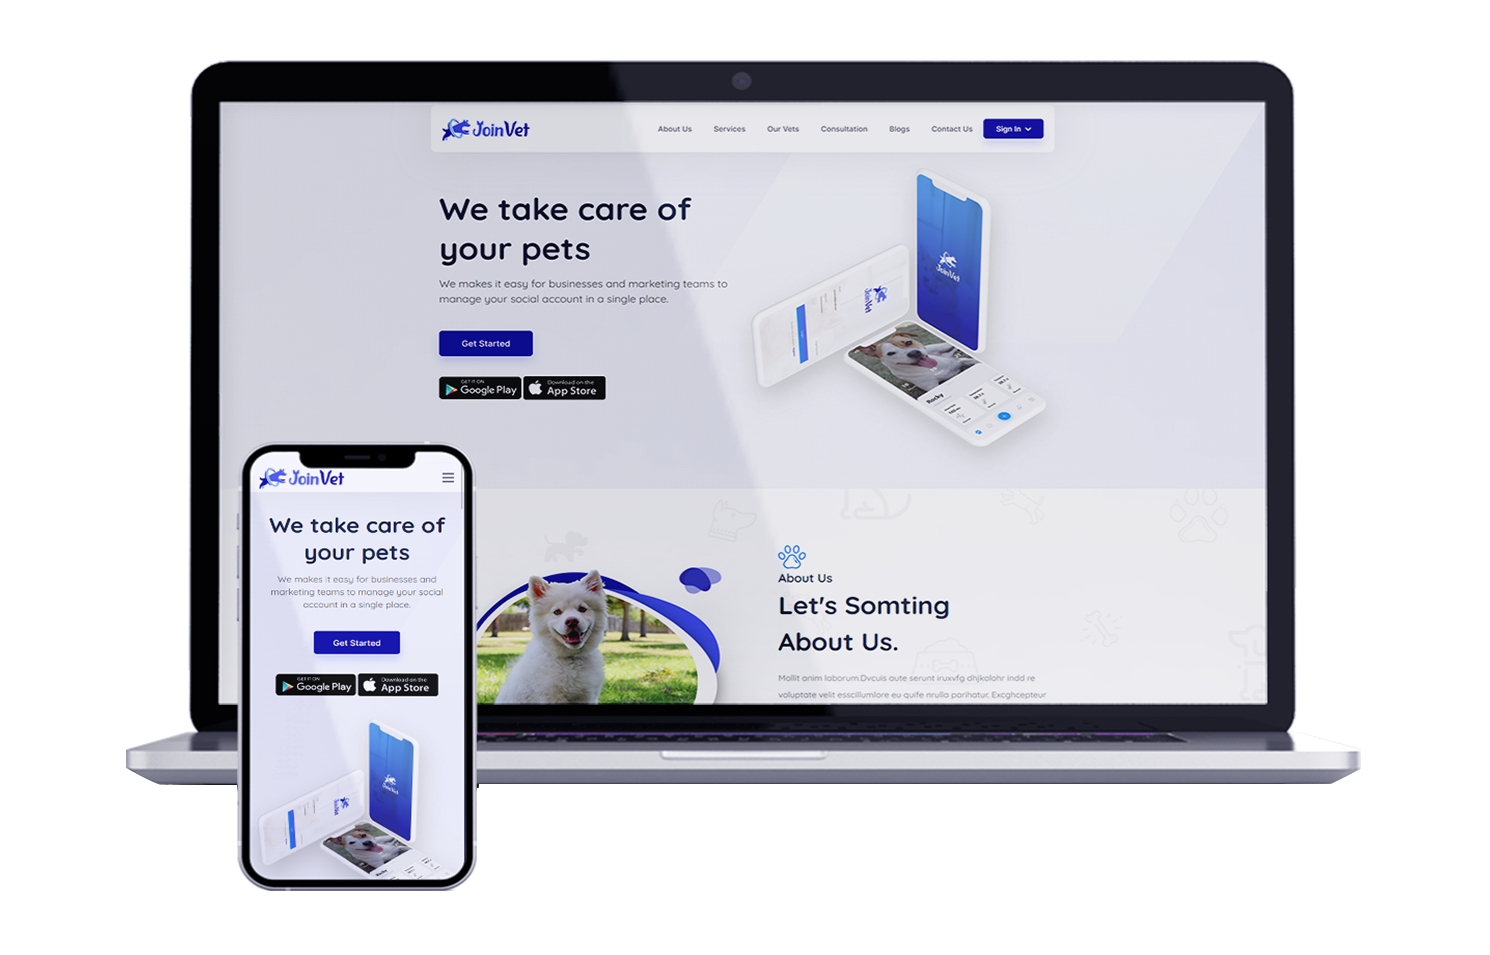
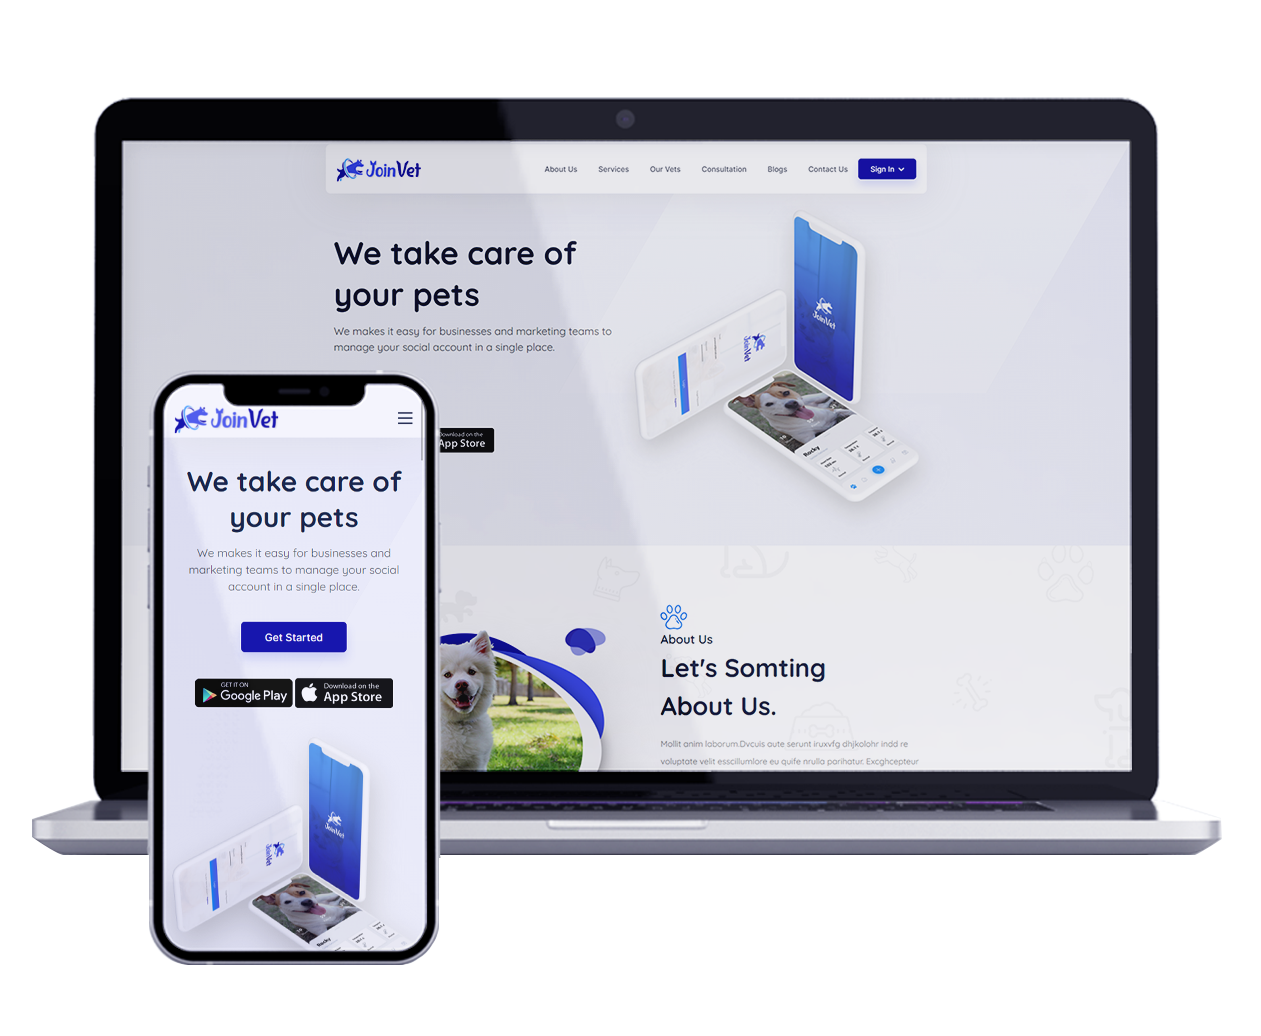
updated graphics and Work on routing

Changed region(s): [[0.0, 0.0607, 0.9897, 0.9414], [0.5258, 0.1822, 0.7113, 0.4555]]

diff --git a/trunk/CompWebApp/webapp/src/components/Layout/Layout.js b/trunk/CompWebApp/webapp/src/components/Layout/Layout.js
@@ -1,5 +1,5 @@
 import React, { Component } from 'react';
-import { Router, Route } from "react-router-dom";
+import { BrowserRouter, Route,Switch } from "react-router-dom";
 import { createBrowserHistory } from "history";
 import HomeContent from '../Home/Home';
 import AboutUsContent from '../AboutUs/AboutUs';
@@ -11,12 +11,14 @@ import UIUX from '../services/ux_ui_design.js';
 import seoTest from '../services/seo_testing.js';
 import graphicsD from '../services/GraphicsDesign.js';
 import Telemedician from '../caseStudies/Telemedician_case.js';
+import NotFound from '../Not-Found/NotFound.js';
 
 const hist = createBrowserHistory();
 export class Layout extends Component { 
     render() {
         return (
-            <Router history={hist}>
+            <BrowserRouter>
+                <Switch>
                 <Route exact path = "/" component = {HomeContent} />
                 <Route exact path = "/home" component = {HomeContent} />
                 <Route exact path = "/about-us" component = {AboutUsContent} />
@@ -28,7 +30,10 @@ export class Layout extends Component {
                 <Route exact path = "/seo_testing" component = {seoTest} />
                 <Route exact path = "/GraphicsDesign" component = {graphicsD} />
                 <Route exact path="/Telemedician_case" component={Telemedician} />
-            </Router>
+
+                <Route component = {NotFound} />
+            </Switch>
+        </BrowserRouter>
         )
     }
 }

diff --git a/trunk/CompWebApp/webapp/src/components/Home/Home.css b/trunk/CompWebApp/webapp/src/components/Home/Home.css
@@ -1288,7 +1288,7 @@ section.stories {
     margin-left: auto;
     filter: drop-shadow(32px 63px 16px rgba(0, 0, 0, 0.08));
     width: auto!important;
-    max-width: 1100px;
+    max-width: 1000px;
     position: absolute;
     right: -419px;
 }
@@ -1337,6 +1337,14 @@ section.stories .owl-theme .owl-dots .owl-dot.active span {
 }
 
 @media (min-width:320px) and (max-width:480px) {
+    .underConstruction {
+        padding: 100px 20px!important;
+    }
+    .underConstruction .ConstructionContent h1 {
+        font-size: 35px!important;
+        margin: 18px 0!important;
+    }
+
     #hero {
         height: auto!important;
         text-align: center;
@@ -1452,6 +1460,14 @@ section.stories .owl-theme .owl-dots .owl-dot.active span {
 }
 
 @media (min-width:481px) and (max-width:767px) {
+    .underConstruction {
+        padding: 100px 20px!important;
+    }
+    .underConstruction .ConstructionContent h1 {
+        font-size: 48px!important;
+        margin: 18px 0!important;
+    }
+
     #hero {
         height: auto!important;
         text-align: center;

diff --git a/trunk/CompWebApp/webapp/src/components/Layout/Footer_new.js b/trunk/CompWebApp/webapp/src/components/Layout/Footer_new.js
@@ -1,4 +1,5 @@
-import React, { Component } from 'react';
+import React, {  Component } from 'react';
+import { Link } from "react-router-dom";
 import './footer_new.css';
 
 class Footer_new extends Component {
@@ -54,7 +55,7 @@ class Footer_new extends Component {
                            <div className="content">
                               <ul>
                                  <li>
-                                    <a href="#">Virtual Reality</a>
+                                    <Link to="">Virtual Reality</Link>
                                  </li>
                                  <li>
                                     <a href="#">Augmented Reality</a>

diff --git a/trunk/CompWebApp/webapp/src/components/Layout/Footer.js b/trunk/CompWebApp/webapp/src/components/Layout/Footer.js
@@ -1,4 +1,5 @@
 import React, { Component } from 'react';
+import { Link } from 'react-router-dom';
 
 class Footer extends Component {
   render() {
@@ -33,7 +34,7 @@ class Footer extends Component {
             <div className="col-lg-3 col-md-6 footer-links">
               <h3>Services</h3>
               <ul>
-                <li> <a href="#">Web Design</a></li>
+                <li> <Link  to="">Web Design</Link></li>
                 <li> <a href="#">Web Development</a></li>
                 <li> <a href="#">Product Management</a></li>
                 <li> <a href="#">Marketing</a></li>

diff --git a/trunk/CompWebApp/webapp/src/components/Not-Found/NotFound.js b/trunk/CompWebApp/webapp/src/components/Not-Found/NotFound.js
@@ -1,0 +1,17 @@
+import React from 'react'
+import { Link } from 'react-router-dom'
+
+const NotFound = () =>
+  <div>
+    <div className="underConstruction">
+    <div className="ConstructionContent">
+        <Link to="/">
+    <img src="assets/img/nestormind.png" width="250px"/>
+    </Link>
+        <h1>Under Maintenance</h1>
+        <img className="underCont" src="assets/img/website_under-construct.png" alt=""/>
+    </div>
+    </div>
+  </div>
+
+export default NotFound

diff --git a/trunk/CompWebApp/webapp/src/components/Layout/Navbar.js b/trunk/CompWebApp/webapp/src/components/Layout/Navbar.js
@@ -53,7 +53,7 @@ class NavBar extends Component {
                 <Link to="/about-us">About Us</Link>
                 </li>
                 <li class="nav-item">
-                <Link to="#">Blog</Link>
+                <Link to="/NotFound">Blog</Link>
                 </li>
                 <li class="nav-item">
                 <Link to="/contact-us">Contact Us</Link>
